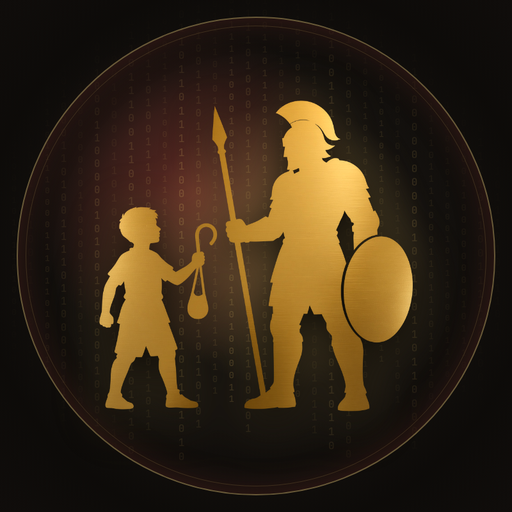
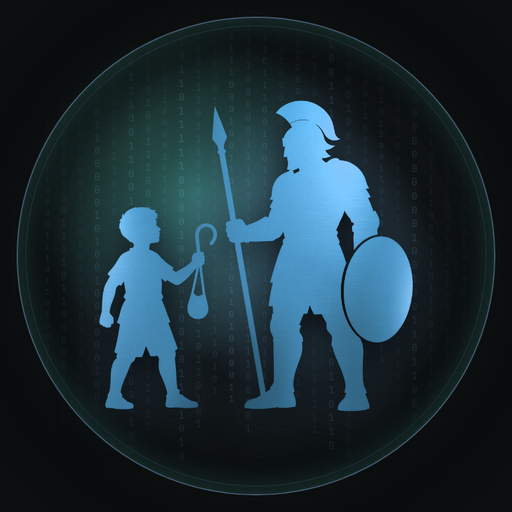
Refresh site colors to icy blue on midnight navy

diff --git a/home.css b/home.css
@@ -1,28 +1,28 @@
-:root{--bg:#14110E;--surface:#1F1B17;--line:#332C24;--text:#F6F1E7;--muted:#C9BFAD;--gold:#D6B770;--gold-2:#C4A35A;--burgundy:#8C3A32;--radius:22px}
+:root{--bg:#07101C;--surface:#101A2A;--line:#2A3C54;--text:#F4F8FC;--muted:#C9D7E6;--gold:#C5E6FF;--gold-2:#8ECAFF;--burgundy:#2F6FBF;--radius:22px}
 *{box-sizing:border-box}html{scroll-behavior:smooth;scroll-padding-top:96px}
 @media (prefers-reduced-motion:reduce){html{scroll-behavior:auto}*{transition:none!important;animation:none!important}}
 body{margin:0;background:var(--bg);color:var(--text);font:400 17px/1.6 Inter,system-ui,sans-serif;-webkit-font-smoothing:antialiased}
 img{max-width:100%;display:block}a{color:inherit}
 :focus-visible{outline:2px solid var(--gold);outline-offset:3px;border-radius:6px}
-.skip-link{position:absolute;left:-9999px;top:8px;background:var(--gold);color:#14110E;padding:10px 16px;border-radius:8px;z-index:100}.skip-link:focus{left:16px}
+.skip-link{position:absolute;left:-9999px;top:8px;background:var(--gold);color:#07101C;padding:10px 16px;border-radius:8px;z-index:100}.skip-link:focus{left:16px}
 .wrap{max-width:1180px;margin:0 auto;padding:0 28px}
-.site-header{position:sticky;top:14px;z-index:50;margin:14px auto 0;max-width:1140px;width:calc(100% - 28px);display:flex;align-items:center;gap:24px;padding:10px 12px 10px 18px;border:1px solid var(--line);border-radius:999px;background:rgba(28,25,21,.72);backdrop-filter:blur(14px);-webkit-backdrop-filter:blur(14px);transition:background .3s,box-shadow .3s}
-.site-header.scrolled{background:rgba(20,17,14,.92);box-shadow:0 10px 30px -12px #000}
+.site-header{position:sticky;top:14px;z-index:50;margin:14px auto 0;max-width:1140px;width:calc(100% - 28px);display:flex;align-items:center;gap:24px;padding:10px 12px 10px 18px;border:1px solid var(--line);border-radius:999px;background:rgba(10,18,32,.72);backdrop-filter:blur(14px);-webkit-backdrop-filter:blur(14px);transition:background .3s,box-shadow .3s}
+.site-header.scrolled{background:rgba(7,16,28,.92);box-shadow:0 10px 30px -12px #000}
 .brand{display:flex;align-items:center;gap:10px;text-decoration:none;font-family:Cinzel,serif;font-weight:700;letter-spacing:.08em;font-size:15px;color:var(--text)}
 .brand img{width:36px;height:auto}
 .site-nav{margin-left:auto;display:flex;gap:4px}
 .site-nav a{padding:8px 14px;border-radius:999px;text-decoration:none;color:var(--muted);font-size:15px;font-weight:500;transition:color .2s,background .2s}
 .site-nav a:hover{color:var(--text);background:#ffffff12}
-.header-phone{padding:9px 16px;border-radius:999px;background:var(--gold);color:#14110E;font-weight:700;font-size:14px;text-decoration:none;transition:transform .2s}.header-phone:hover{transform:translateY(-1px)}
+.header-phone{padding:9px 16px;border-radius:999px;background:var(--gold);color:#07101C;font-weight:700;font-size:14px;text-decoration:none;transition:transform .2s}.header-phone:hover{transform:translateY(-1px)}
 .hero{position:relative;overflow:hidden;padding:110px 0 120px;margin-top:-80px;padding-top:190px;text-align:center}
-.glow{position:absolute;inset:0;z-index:-1;background:radial-gradient(560px 380px at 28% 30%,rgba(140,58,50,.55),transparent 70%),radial-gradient(620px 420px at 74% 62%,rgba(196,163,90,.38),transparent 70%)}
+.glow{position:absolute;inset:0;z-index:-1;background:radial-gradient(560px 380px at 28% 30%,rgba(70,140,220,.48),transparent 70%),radial-gradient(620px 420px at 74% 62%,rgba(170,214,255,.30),transparent 70%)}
 .hero__logo{width:96px;height:auto;margin:0 auto 28px}
 h1{font-family:Cinzel,serif;font-weight:700;font-size:clamp(36px,6.2vw,80px);line-height:1.08;margin:0 auto 22px;max-width:980px}
-.gold{background:linear-gradient(90deg,#C4A35A,#EBD49A,#C4A35A);-webkit-background-clip:text;background-clip:text;color:transparent}
+.gold{background:linear-gradient(90deg,#8ECAFF,#F4FBFF,#8ECAFF);-webkit-background-clip:text;background-clip:text;color:transparent}
 .lead{font-size:clamp(17px,1.6vw,20px);color:var(--muted);max-width:620px;margin:0 auto}
 .actions{display:flex;gap:12px;justify-content:center;flex-wrap:wrap;margin-top:34px}
 .btn{display:inline-flex;align-items:center;justify-content:center;padding:15px 28px;border-radius:14px;font:700 16px Inter,sans-serif;text-decoration:none;border:1px solid transparent;cursor:pointer;transition:transform .2s,box-shadow .2s,background .2s}
-.btn--gold{background:linear-gradient(135deg,#D6B770,#A68534);color:#14110E}.btn--gold:hover{transform:translateY(-2px);box-shadow:0 12px 28px -10px rgba(214,183,112,.6)}
+.btn--gold{background:linear-gradient(135deg,#E8F4FF,#8EC4F5);color:#07101C}.btn--gold:hover{transform:translateY(-2px);box-shadow:0 12px 28px -10px rgba(142,196,245,.55)}
 .btn--ghost{background:#ffffff0d;border-color:var(--line);color:var(--text)}.btn--ghost:hover{background:#ffffff1a;transform:translateY(-2px)}
 .btn:disabled{opacity:.6;cursor:wait}
 .section{padding:90px 28px}
@@ -31,25 +31,25 @@ h2{font-size:clamp(30px,4vw,46px);line-height:1.15;letter-spacing:-.02em;margin:
 h3{font-size:21px;margin:0 0 12px;font-weight:700}
 .bento{display:grid;grid-template-columns:1.5fr 1fr;grid-template-rows:auto auto;gap:18px}
 .tile,.card{background:var(--surface);border:1px solid var(--line);border-radius:var(--radius);padding:32px;transition:border-color .25s,transform .25s}
-.card:hover{border-color:rgba(214,183,112,.55);transform:translateY(-4px)}
+.card:hover{border-color:rgba(184,220,255,.55);transform:translateY(-4px)}
 .tile--story p{font-size:19px;margin:0}
-.tile--story .quote{margin-top:20px;padding-left:18px;border-left:3px solid var(--gold-2);font-family:"Source Serif 4",serif;font-style:italic;font-size:21px;color:#E6CD8E}
+.tile--story .quote{margin-top:20px;padding-left:18px;border-left:3px solid var(--gold-2);font-family:"Source Serif 4",serif;font-style:italic;font-size:21px;color:#D7ECFF}
 .tile--photo{grid-row:span 2;padding:0;margin:0;overflow:hidden;display:flex;flex-direction:column}
 .tile--photo img{flex:1;object-fit:cover;width:100%;min-height:320px}
 .tile--photo figcaption{padding:16px 22px;color:var(--muted);font-size:14px}
-.tile--principles{background:linear-gradient(140deg,#8C3A32,#5A211C);border:0}
-.tile--principles h3{color:#F6E7C8}
+.tile--principles{background:linear-gradient(140deg,#16325C,#0C1C34);border:0}
+.tile--principles h3{color:#E7F4FF}
 .tile--principles ol{margin:0;padding:0;list-style:none;counter-reset:p}
 .tile--principles li{counter-increment:p;display:flex;gap:14px;padding:12px 0;border-top:1px solid rgba(255,255,255,.18);font-weight:500}
-.tile--principles li:before{content:"0" counter(p);font-weight:800;color:#F0D99B}
+.tile--principles li:before{content:"0" counter(p);font-weight:800;color:#D4ECFF}
 .grid3{display:grid;grid-template-columns:repeat(3,1fr);gap:18px}.grid2{display:grid;grid-template-columns:1fr 1fr;gap:18px}
 .card p{color:var(--muted);margin:0}
-.num{display:inline-grid;place-items:center;width:46px;height:46px;border-radius:14px;margin-bottom:20px;background:linear-gradient(135deg,#C4A35A,#8C3A32);font-weight:800;color:#fff}
+.num{display:inline-grid;place-items:center;width:46px;height:46px;border-radius:14px;margin-bottom:20px;background:linear-gradient(135deg,#E8F4FF,#8EC4F5);font-weight:800;color:#07101C}
 .links{display:flex;flex-wrap:wrap;gap:8px;margin-top:22px}
 .links a{padding:8px 15px;border-radius:999px;background:#ffffff10;border:1px solid var(--line);text-decoration:none;font-size:14px;font-weight:600;transition:background .2s,color .2s}
-.links a:after{content:" →"}.links a:hover{background:var(--gold);color:#14110E}
-.note,.muted{color:#A89F90;font-size:15px}.note{margin-top:16px}
-.contact{display:grid;grid-template-columns:1fr 1.35fr;gap:48px;padding:52px;border-radius:32px;border:1px solid var(--line);background:linear-gradient(135deg,#1F1B17,#2A1714)}
+.links a:after{content:" →"}.links a:hover{background:var(--gold);color:#07101C}
+.note,.muted{color:#A9BCCE;font-size:15px}.note{margin-top:16px}
+.contact{display:grid;grid-template-columns:1fr 1.35fr;gap:48px;padding:52px;border-radius:32px;border:1px solid var(--line);background:linear-gradient(135deg,#101A2A,#14283F)}
 .contact h2{margin-bottom:12px}
 .contact__lines{display:flex;flex-direction:column;gap:6px;margin-top:22px}
 .contact__lines a{color:var(--gold);font-weight:700;font-size:20px;text-decoration:none}.contact__lines a:hover{text-decoration:underline}
@@ -57,7 +57,7 @@ h3{font-size:21px;margin:0 0 12px;font-weight:700}
 .field{display:flex;flex-direction:column;gap:6px;margin:0;min-width:0}.field--full{grid-column:1/-1}
 fieldset.field{border:0;padding:0}
 .field label,legend{font-size:14px;font-weight:600;color:var(--text);padding:0}
-input[type=text],input[type=email],input[type=tel],textarea{width:100%;font:inherit;color:var(--text);background:#14110E;border:1px solid var(--line);border-radius:12px;padding:12px 14px;transition:border-color .2s}
+input[type=text],input[type=email],input[type=tel],textarea{width:100%;font:inherit;color:var(--text);background:#07101C;border:1px solid var(--line);border-radius:12px;padding:12px 14px;transition:border-color .2s}
 input:focus,textarea:focus{border-color:var(--gold);outline:none}
 [aria-invalid=true],[aria-invalid=true] input{border-color:#E07A6E!important}
 .choice-group{display:flex;flex-wrap:wrap;gap:8px;margin-top:6px}

diff --git a/tools/styles.css b/tools/styles.css
@@ -1,12 +1,12 @@
 :root {
-  --bg: #14110E;
-  --surface: #1F1B17;
-  --line: #332C24;
-  --text: #F6F1E7;
-  --muted: #C9BFAD;
-  --gold: #D6B770;
-  --gold-2: #C4A35A;
-  --burgundy: #8C3A32;
+  --bg: #07101C;
+  --surface: #101A2A;
+  --line: #2A3C54;
+  --text: #F4F8FC;
+  --muted: #C9D7E6;
+  --gold: #C5E6FF;
+  --gold-2: #8ECAFF;
+  --burgundy: #2F6FBF;
   --radius: 22px;
 }
 
@@ -78,14 +78,14 @@ a {
   padding: 10px 12px 10px 18px;
   border: 1px solid var(--line);
   border-radius: 999px;
-  background: rgba(28, 25, 21, 0.72);
+  background: rgba(10, 18, 32, 0.72);
   backdrop-filter: blur(14px);
   -webkit-backdrop-filter: blur(14px);
   transition: background 0.3s, box-shadow 0.3s;
 }
 
 .site-header.scrolled {
-  background: rgba(20, 17, 14, 0.92);
+  background: rgba(7, 16, 28, 0.92);
   box-shadow: 0 10px 30px -12px #000;
 }
 
@@ -162,8 +162,8 @@ main {
   inset: 0;
   z-index: 0;
   background:
-    radial-gradient(560px 320px at 28% 42%, rgba(140, 58, 50, 0.55), transparent 70%),
-    radial-gradient(620px 360px at 76% 58%, rgba(196, 163, 90, 0.38), transparent 70%);
+    radial-gradient(560px 320px at 28% 42%, rgba(70, 140, 220, 0.48), transparent 70%),
+    radial-gradient(620px 360px at 76% 58%, rgba(170, 214, 255, 0.3), transparent 70%);
   pointer-events: none;
 }
 
@@ -213,14 +213,14 @@ h1::after {
 }
 
 .tool-card:hover {
-  border-color: rgba(214, 183, 112, 0.55);
+  border-color: rgba(184, 220, 255, 0.55);
   transform: translateY(-4px);
 }
 
 .tool-card__media {
   aspect-ratio: 16 / 10;
   overflow: hidden;
-  background: #0e0c0a;
+  background: #070B14;
 }
 
 .tool-card__media img {
@@ -253,7 +253,7 @@ h1::after {
   min-height: 48px;
   margin: auto 24px 24px;
   border-radius: 14px;
-  background: linear-gradient(135deg, var(--gold), #a68534);
+  background: linear-gradient(135deg, #e8f4ff, #8ec4f5);
   color: var(--bg);
   font-family: Inter, system-ui, sans-serif;
   font-size: 15px;
@@ -261,7 +261,7 @@ h1::after {
 }
 
 .tool-card:hover .tool-card__cta {
-  box-shadow: 0 12px 28px -10px rgba(214, 183, 112, 0.6);
+  box-shadow: 0 12px 28px -10px rgba(142, 196, 245, 0.55);
 }
 
 .site-footer {

diff --git a/index.html b/index.html
@@ -5,7 +5,7 @@
   <meta name="viewport" content="width=device-width, initial-scale=1.0">
   <title>Empowering David, LLC</title>
   <meta name="description" content="Ken builds the smallest automation or app that solves one expensive problem for a small business. Pittsburgh. No charge until the proposal is accepted.">
-  <meta name="theme-color" content="#14110E">
+  <meta name="theme-color" content="#07101C">
   <meta property="og:title" content="Empowering David, LLC">
   <meta property="og:description" content="Ken builds the smallest automation or app that solves one expensive problem for a small business. Pittsburgh. No charge until the proposal is accepted.">
   <meta property="og:image" content="https://empoweringdavid.com/images/logo.png">
@@ -13,10 +13,10 @@
   <meta property="og:url" content="https://empoweringdavid.com/">
   <meta property="og:type" content="website">
   <meta name="apple-mobile-web-app-title" content="Empowering David">
-  <link rel="icon" href="images/favicon.ico?v=2" type="image/x-icon">
-  <link rel="icon" type="image/png" sizes="32x32" href="images/favicon-32.png?v=2">
-  <link rel="icon" type="image/png" sizes="16x16" href="images/favicon-16.png?v=2">
-  <link rel="apple-touch-icon" sizes="180x180" href="images/apple-touch-icon.png?v=2">
+  <link rel="icon" href="images/favicon.ico?v=3" type="image/x-icon">
+  <link rel="icon" type="image/png" sizes="32x32" href="images/favicon-32.png?v=3">
+  <link rel="icon" type="image/png" sizes="16x16" href="images/favicon-16.png?v=3">
+  <link rel="apple-touch-icon" sizes="180x180" href="images/apple-touch-icon.png?v=3">
   <link rel="manifest" href="site.webmanifest">
   <link rel="preconnect" href="https://fonts.googleapis.com">
   <link rel="preconnect" href="https://fonts.gstatic.com" crossorigin>

diff --git a/privacy/styles.css b/privacy/styles.css
@@ -1,12 +1,12 @@
 :root {
-  --bg: #14110E;
-  --surface: #1F1B17;
-  --line: #332C24;
-  --text: #F6F1E7;
-  --muted: #C9BFAD;
-  --gold: #D6B770;
-  --gold-2: #C4A35A;
-  --burgundy: #8C3A32;
+  --bg: #07101C;
+  --surface: #101A2A;
+  --line: #2A3C54;
+  --text: #F4F8FC;
+  --muted: #C9D7E6;
+  --gold: #C5E6FF;
+  --gold-2: #8ECAFF;
+  --burgundy: #2F6FBF;
   --radius: 22px;
 }
 
@@ -78,14 +78,14 @@ a {
   padding: 10px 12px 10px 18px;
   border: 1px solid var(--line);
   border-radius: 999px;
-  background: rgba(28, 25, 21, 0.72);
+  background: rgba(10, 18, 32, 0.72);
   backdrop-filter: blur(14px);
   -webkit-backdrop-filter: blur(14px);
   transition: background 0.3s, box-shadow 0.3s;
 }
 
 .site-header.scrolled {
-  background: rgba(20, 17, 14, 0.92);
+  background: rgba(7, 16, 28, 0.92);
   box-shadow: 0 10px 30px -12px #000;
 }
 
@@ -162,8 +162,8 @@ main {
   inset: 0;
   z-index: 0;
   background:
-    radial-gradient(560px 320px at 28% 42%, rgba(140, 58, 50, 0.55), transparent 70%),
-    radial-gradient(620px 360px at 76% 58%, rgba(196, 163, 90, 0.38), transparent 70%);
+    radial-gradient(560px 320px at 28% 42%, rgba(70, 140, 220, 0.48), transparent 70%),
+    radial-gradient(620px 360px at 76% 58%, rgba(170, 214, 255, 0.3), transparent 70%);
   pointer-events: none;
 }
 
@@ -237,7 +237,7 @@ h1::after {
 }
 
 .privacy-card a:hover {
-  color: #f0e2bc;
+  color: #e7f4ff;
 }
 
 .site-footer {

diff --git a/privacy/index.html b/privacy/index.html
@@ -5,11 +5,11 @@
     <meta name="viewport" content="width=device-width, initial-scale=1.0">
     <title>Privacy Policy | Empowering David, LLC</title>
     <meta name="description" content="What information Empowering David, LLC collects, why, and what it does with it.">
-    <meta name="theme-color" content="#14110E">
-    <link rel="icon" href="../images/favicon.ico?v=2" type="image/x-icon">
-    <link rel="icon" type="image/png" sizes="32x32" href="../images/favicon-32.png?v=2">
-    <link rel="icon" type="image/png" sizes="16x16" href="../images/favicon-16.png?v=2">
-    <link rel="apple-touch-icon" sizes="180x180" href="../images/apple-touch-icon.png?v=2">
+    <meta name="theme-color" content="#07101C">
+    <link rel="icon" href="../images/favicon.ico?v=3" type="image/x-icon">
+    <link rel="icon" type="image/png" sizes="32x32" href="../images/favicon-32.png?v=3">
+    <link rel="icon" type="image/png" sizes="16x16" href="../images/favicon-16.png?v=3">
+    <link rel="apple-touch-icon" sizes="180x180" href="../images/apple-touch-icon.png?v=3">
     <link rel="manifest" href="../site.webmanifest">
     <link rel="preconnect" href="https://fonts.googleapis.com">
     <link rel="preconnect" href="https://fonts.gstatic.com" crossorigin>

diff --git a/tools/index.html b/tools/index.html
@@ -5,11 +5,11 @@
     <meta name="viewport" content="width=device-width, initial-scale=1.0">
     <title>Free Tools | Empowering David, LLC</title>
     <meta name="description" content="SM URL Converter, Time Converter, and an X phishing example.">
-    <meta name="theme-color" content="#14110E">
-    <link rel="icon" href="../images/favicon.ico?v=2" type="image/x-icon">
-    <link rel="icon" type="image/png" sizes="32x32" href="../images/favicon-32.png?v=2">
-    <link rel="icon" type="image/png" sizes="16x16" href="../images/favicon-16.png?v=2">
-    <link rel="apple-touch-icon" sizes="180x180" href="../images/apple-touch-icon.png?v=2">
+    <meta name="theme-color" content="#07101C">
+    <link rel="icon" href="../images/favicon.ico?v=3" type="image/x-icon">
+    <link rel="icon" type="image/png" sizes="32x32" href="../images/favicon-32.png?v=3">
+    <link rel="icon" type="image/png" sizes="16x16" href="../images/favicon-16.png?v=3">
+    <link rel="apple-touch-icon" sizes="180x180" href="../images/apple-touch-icon.png?v=3">
     <link rel="manifest" href="../site.webmanifest">
     <link rel="preconnect" href="https://fonts.googleapis.com">
     <link rel="preconnect" href="https://fonts.gstatic.com" crossorigin>
